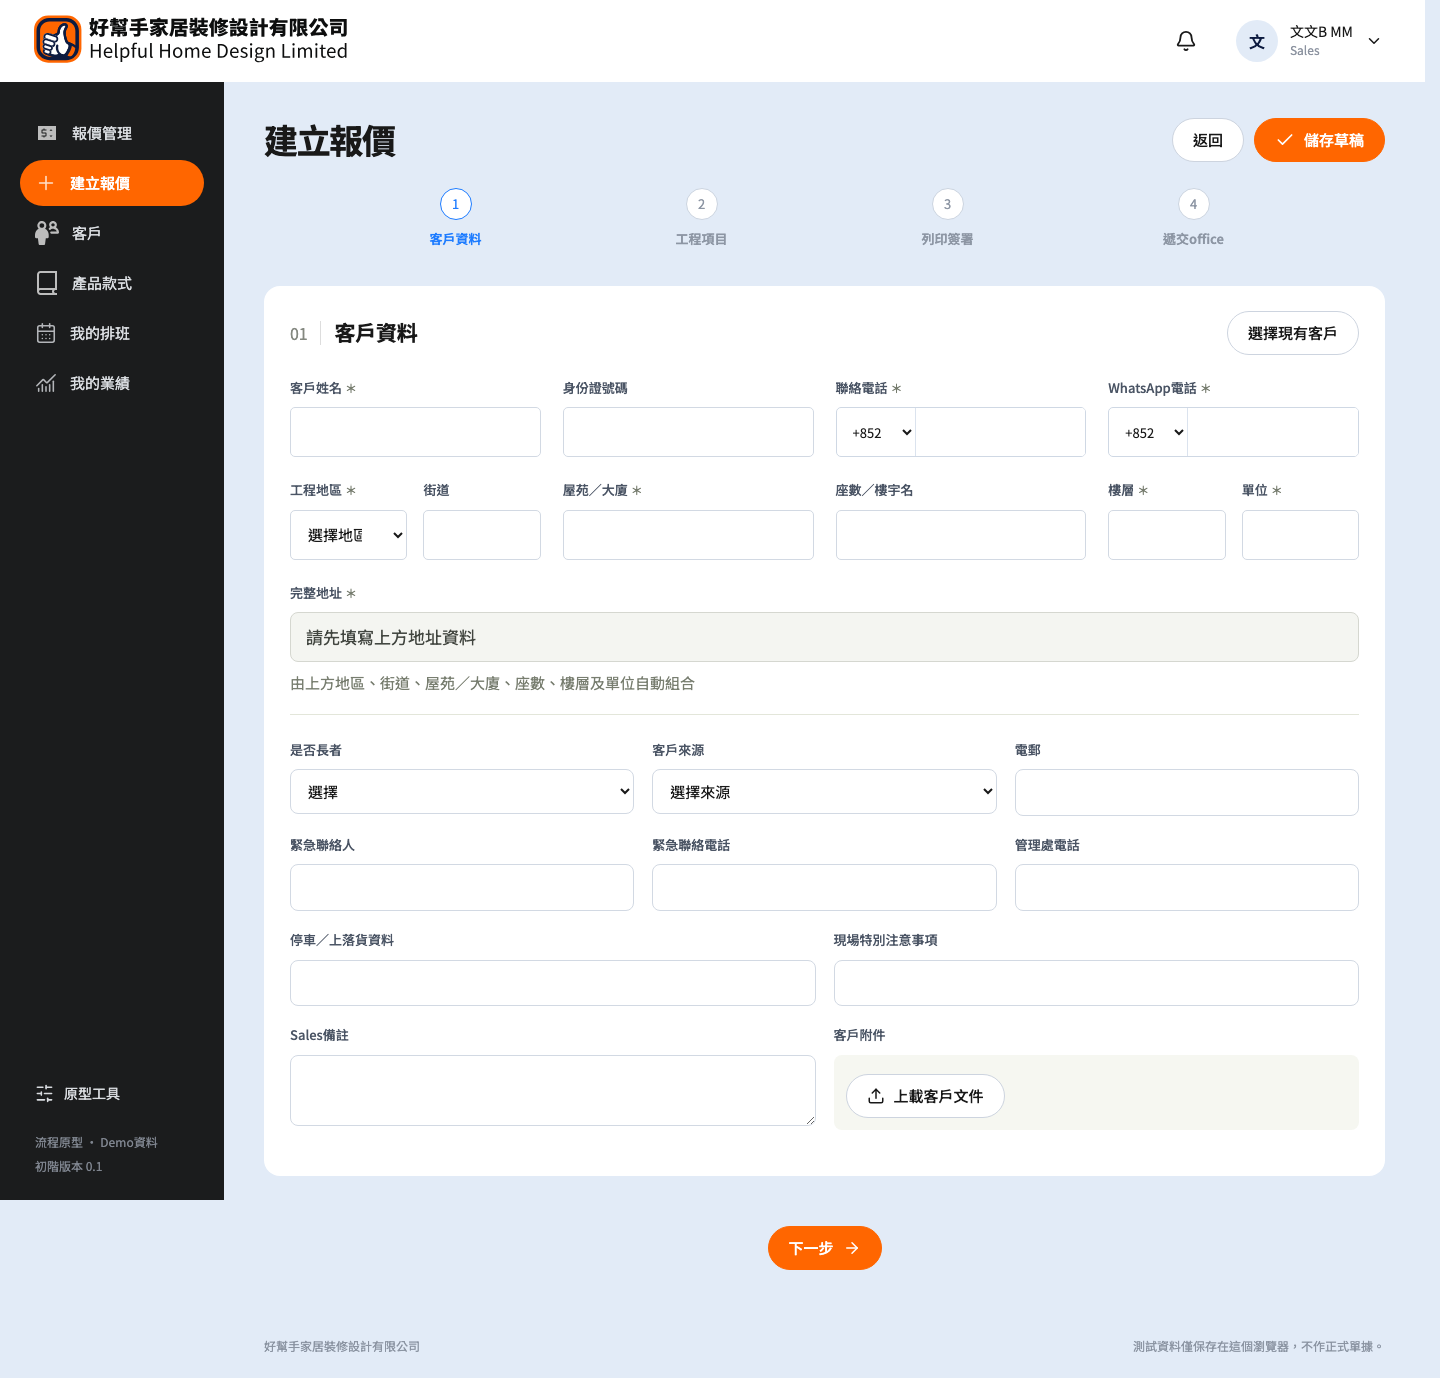
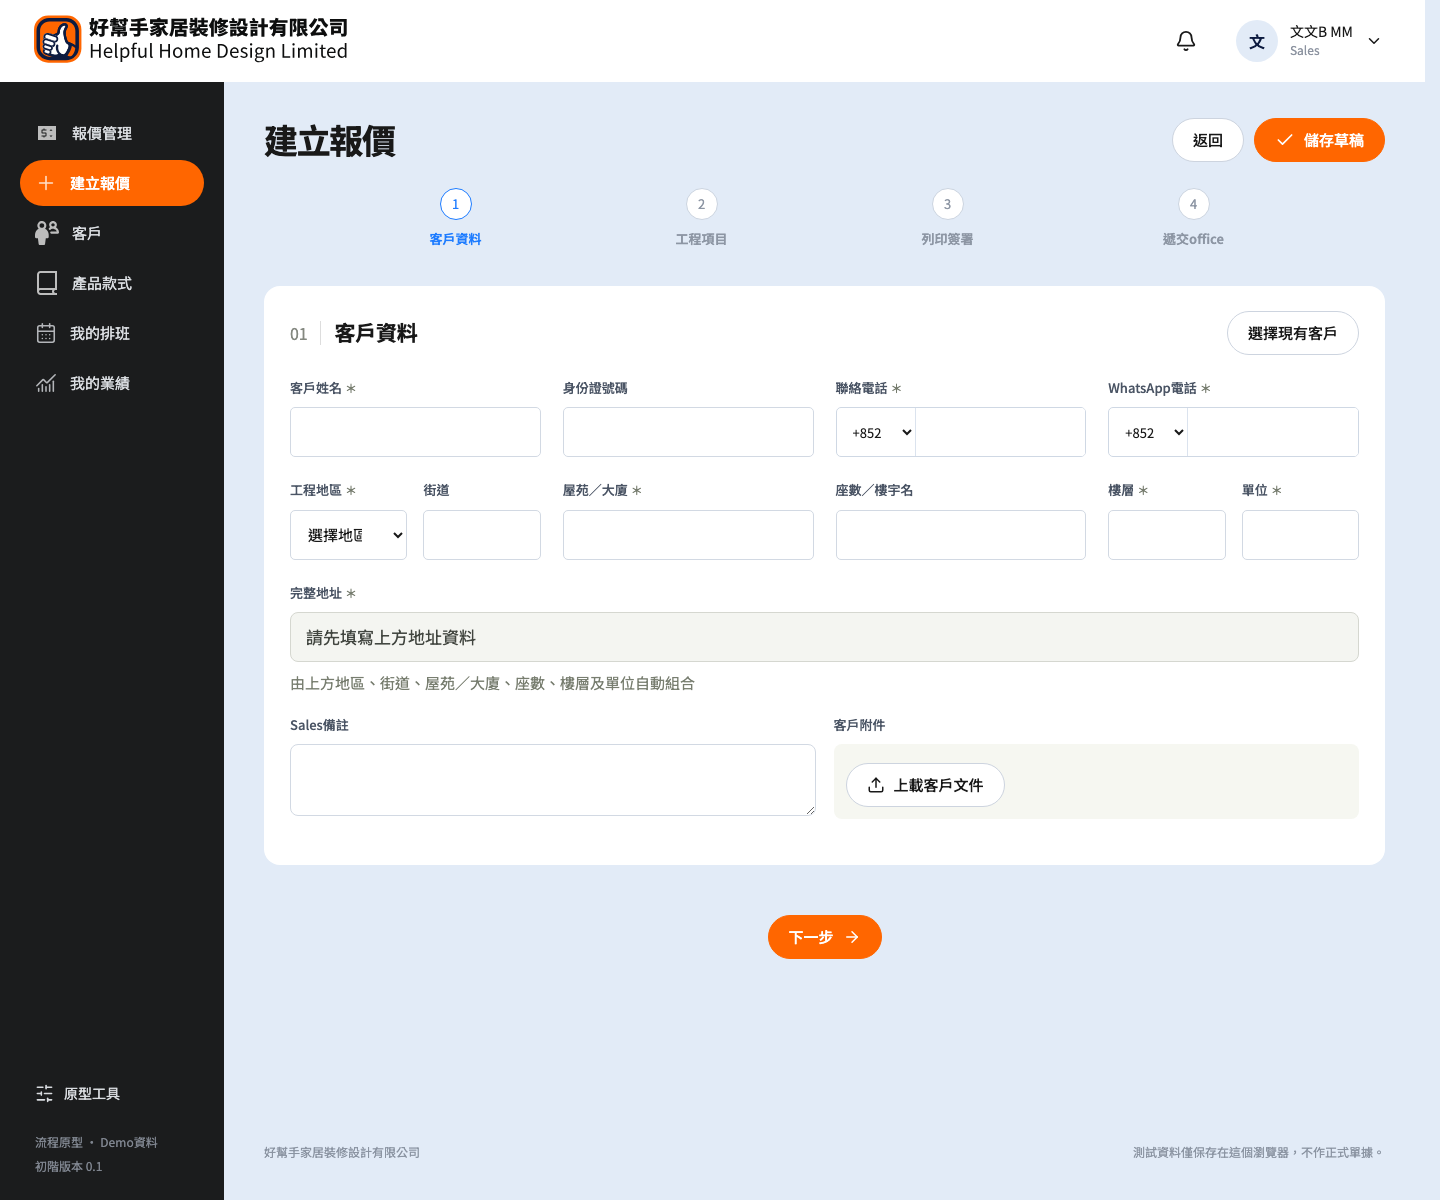
feat(quotes): finalize wizard fields, grouped items and order nature

diff --git a/src/pages/Quotes.tsx b/src/pages/Quotes.tsx
@@ -458,58 +458,25 @@ export function CustomerForm({
           {address || "請先填寫上方地址資料"}
         </output>
       </Field>
-      <div className="expanded-form">
-        <div className="form-grid three">
-            <Field label="是否長者">
-            <select
-              value={value.isElderly}
-              onChange={(e) => set("isElderly", e.target.value)}
-            >
-              <option value="">選擇</option>
-              <option value="yes">是</option>
-              <option value="no">否</option>
-            </select>
-          </Field>
-          <Field label="客戶來源">
-            <select
-              value={value.source}
-              onChange={(e) => set("source", e.target.value)}
-            >
-              <option value="">選擇來源</option>
-              {["Facebook", "街站", "朋友介紹", "舊客", "其他"].map(
-                (source) => (
-                  <option key={source}>{source}</option>
-                ),
-              )}
-            </select>
-          </Field>
-          {text("email", "電郵", false)}
-          {text("emergencyName", "緊急聯絡人", false)}
-          {text("emergencyPhone", "緊急聯絡電話", false)}
-          {text("managementPhone", "管理處電話", false)}
-        </div>
-        <div className="form-grid two">
-          {text("parking", "停車／上落貨資料", false)}
-          {text("precautions", "現場特別注意事項", false)}
-          <Field label="Sales備註">
-            <textarea
-              value={value.notes}
-              onChange={(e) => set("notes", e.target.value)}
-            />
-          </Field>
-          <Field label="客戶附件">
-            <UploadField
-              attachment={value.attachment}
-              label="上載客戶文件"
-              onSave={(attachment) =>
-                onChange({ ...value, attachment, address })
-              }
-              onClear={() =>
-                onChange({ ...value, attachment: undefined, address })
-              }
-            />
-          </Field>
-        </div>
+      <div className="form-grid two">
+        <Field label="Sales備註">
+          <textarea
+            value={value.notes}
+            onChange={(e) => set("notes", e.target.value)}
+          />
+        </Field>
+        <Field label="客戶附件">
+          <UploadField
+            attachment={value.attachment}
+            label="上載客戶文件"
+            onSave={(attachment) =>
+              onChange({ ...value, attachment, address })
+            }
+            onClear={() =>
+              onChange({ ...value, attachment: undefined, address })
+            }
+          />
+        </Field>
       </div>
     </>
   );
@@ -901,10 +868,29 @@ export function QuoteEditor() {
                 {lines.map((l, i) => {
                   const s = l.itemSnapshot,
                     a = pricing.lineAmounts.find((a) => a.id === l.id);
+                  const firstInCategory =
+                    i === 0 ||
+                    lines[i - 1].itemSnapshot.category !== s.category;
+                  const lastInCategory =
+                    i === lines.length - 1 ||
+                    lines[i + 1].itemSnapshot.category !== s.category;
+                  const categoryTotal = lines
+                    .filter((line) => line.itemSnapshot.category === s.category)
+                    .reduce(
+                      (total, line) =>
+                        total +
+                        (pricing.lineAmounts.find(
+                          (amount) => amount.id === line.id,
+                        )?.preDiscount ?? 0),
+                      0,
+                    );
                   return (
+                    <React.Fragment key={l.id}>
+                    {firstInCategory && (
+                      <div className="quote-category-head">{s.category}</div>
+                    )}
                     <article
                       className={`line-card ${l.pricePending ? "pending-price" : ""}`}
-                      key={l.id}
                     >
                       <div className="line-head">
                         <span className="line-index">
@@ -1108,6 +1094,13 @@ export function QuoteEditor() {
                         </button>
                       )}
                     </article>
+                    {lastInCategory && (
+                      <div className="quote-category-subtotal">
+                        <span>工程小計</span>
+                        <strong>{money(categoryTotal)}</strong>
+                      </div>
+                    )}
+                    </React.Fragment>
                   );
                 })}
               </div>
@@ -1221,7 +1214,7 @@ export function QuoteEditor() {
             >
               儲存更正
             </Button>
-          ) : (
+          ) : !wizard ? (
             <Button
               className="full-width"
               variant="primary"
@@ -1230,7 +1223,7 @@ export function QuoteEditor() {
             >
               前往預覽及成交 <ArrowRight size={20} />
             </Button>
-          )}
+          ) : null}
         </aside>
         )}
       </div>

diff --git a/src/pages/QuoteHandoff.tsx b/src/pages/QuoteHandoff.tsx
@@ -57,6 +57,12 @@ export function QuoteHandoff() {
     preparation?.supervisorId ?? "",
   );
   const [confirmSigned, setConfirmSigned] = useState(false);
+  const [additionalOrder, setAdditionalOrder] = useState(
+    Boolean(quote.isAdditionalOrder),
+  );
+  const [parentQuoteId, setParentQuoteId] = useState(
+    quote.parentQuoteId ?? "",
+  );
   const [amount, setAmount] = useState("1500");
   const [method, setMethod] = useState<Payment["method"]>("cash");
   const [custody, setCustody] = useState<Payment["custody"]>("sales");
@@ -80,6 +86,22 @@ export function QuoteHandoff() {
       .listPayments(actor)
       .filter((payment) => payment.quoteId === quote!.id);
   } catch {}
+  const ownPreviousQuotes = engine
+    .listQuotes(actor)
+    .filter(
+      (candidate) =>
+        candidate.ownerId === quote!.ownerId && candidate.id !== quote!.id,
+    )
+    .sort((a, b) => b.updatedAt.localeCompare(a.updatedAt));
+  const sameCustomerPrevious = ownPreviousQuotes.find((candidate) => {
+    const customer = currentVersion(candidate).customer;
+    return (
+      (version.customer.id && customer.id === version.customer.id) ||
+      (version.customer.phone &&
+        customer.phone.replace(/\s+/g, "") ===
+          version.customer.phone.replace(/\s+/g, ""))
+    );
+  });
   const canEdit = quote.ownerId === actor.id;
   const signedDocument = version.signedDocument;
   const signed =
@@ -224,6 +246,81 @@ export function QuoteHandoff() {
                     },
                   )}
                 </div>
+              </div>
+              <div className="handoff-nature">
+                <strong>訂單性質</strong>
+                <label>
+                  <input
+                    type="radio"
+                    name="order-nature"
+                    checked={!additionalOrder}
+                    disabled={Boolean(preparation) || !canEdit}
+                    onChange={() => {
+                      setAdditionalOrder(false);
+                      setParentQuoteId("");
+                      run(
+                        () =>
+                          engine.updateQuoteOrderMeta(actor, quote!.id, {
+                            isAdditionalOrder: false,
+                          }),
+                        "已設為新訂單。",
+                      );
+                    }}
+                  />
+                  新訂單
+                </label>
+                <label>
+                  <input
+                    type="radio"
+                    name="order-nature"
+                    checked={additionalOrder}
+                    disabled={Boolean(preparation) || !canEdit}
+                    onChange={() => {
+                      setAdditionalOrder(true);
+                      if (sameCustomerPrevious) {
+                        setParentQuoteId(sameCustomerPrevious.id);
+                        run(
+                          () =>
+                            engine.updateQuoteOrderMeta(actor, quote!.id, {
+                              isAdditionalOrder: true,
+                              parentQuoteId: sameCustomerPrevious.id,
+                            }),
+                          `已自動配對同客戶舊報價 ${sameCustomerPrevious.number}。`,
+                        );
+                      }
+                    }}
+                  />
+                  加單
+                </label>
+                {additionalOrder && (
+                  <select
+                    aria-label="原本報價單"
+                    value={parentQuoteId}
+                    disabled={Boolean(preparation) || !canEdit}
+                    onChange={(event) => {
+                      const value = event.target.value;
+                      setParentQuoteId(value);
+                      if (!value) return;
+                      run(
+                        () =>
+                          engine.updateQuoteOrderMeta(actor, quote!.id, {
+                            isAdditionalOrder: true,
+                            parentQuoteId: value,
+                          }),
+                        "加單資料已更新。",
+                      );
+                    }}
+                  >
+                    <option value="">選擇自己之前的報價單</option>
+                    {ownPreviousQuotes.map((candidate) => (
+                      <option key={candidate.id} value={candidate.id}>
+                        {candidate.number} ·{" "}
+                        {currentVersion(candidate).customer.name} ·{" "}
+                        {candidate.createdAt.slice(0, 10)}
+                      </option>
+                    ))}
+                  </select>
+                )}
               </div>
               {preparation && (
                 <div className="handoff-prepared">

diff --git a/src/styles.css b/src/styles.css
@@ -10007,3 +10007,61 @@ textarea::placeholder {
   margin: 0;
   font-size: 13px;
 }
+
+/* Real Step 2 category grouping */
+.quote-category-head {
+  margin: 18px 0 0;
+  padding: 10px 16px;
+  border-radius: 6px 6px 0 0;
+  background: #88baff;
+  color: #14315e;
+  font-size: 14px;
+  font-weight: 600;
+}
+.quote-category-head + .line-card {
+  margin-top: 0;
+  border-top-left-radius: 0;
+  border-top-right-radius: 0;
+}
+.quote-category-subtotal {
+  display: flex;
+  justify-content: space-between;
+  gap: 16px;
+  margin-bottom: 14px;
+  padding: 9px 16px;
+  border-radius: 0 0 6px 6px;
+  background: #f0f3f7;
+  color: #596579;
+  font-size: 13px;
+}
+.quote-category-subtotal strong {
+  color: #313642;
+  font-variant-numeric: tabular-nums;
+}
+
+.handoff-nature {
+  display: flex;
+  align-items: center;
+  flex-wrap: wrap;
+  gap: 10px 16px;
+  margin-top: 18px;
+  padding-top: 16px;
+  border-top: 1px solid #dbe3ee;
+  color: #4f5b6b;
+  font-size: 13px;
+}
+.handoff-nature > strong {
+  flex-basis: 100%;
+  color: #4b5565;
+}
+.handoff-nature label {
+  display: inline-flex;
+  align-items: center;
+  gap: 6px;
+  white-space: nowrap;
+}
+.handoff-nature select {
+  width: 100%;
+  min-height: 40px;
+  margin-top: 4px;
+}

diff --git a/tests/e2e/customer-form.spec.ts b/tests/e2e/customer-form.spec.ts
@@ -30,8 +30,9 @@ test("Sales客戶表單只顯示核心欄位，街道及座數可以留空", asy
   expect(labelText).toContain("街道");
   expect(labelText.some((text) => text.startsWith("座數"))).toBe(true);
   expect(labelText.some((text) => text.startsWith("身份證號碼"))).toBe(true);
-  expect(labelText).toContain("緊急聯絡人");
-  expect(labelText).toContain("緊急聯絡電話");
+  expect(labelText).not.toContain("緊急聯絡人");
+  expect(labelText).not.toContain("是否長者");
+  expect(labelText).not.toContain("客戶來源");
   const streetLabel = labelText.find((text) => text.startsWith("街道")) ?? "";
   const blockLabel = labelText.find((text) => text.startsWith("座數")) ?? "";
   const nameLabel = labelText.find((text) => text.startsWith("客戶姓名")) ?? "";

diff --git a/tests/e2e/golden-path.spec.ts b/tests/e2e/golden-path.spec.ts
@@ -60,8 +60,12 @@ test("全新來源經Sales→Finance→開單員→CS；部分款及未簽不會
   await line.getByLabel("長度", { exact: false }).fill("100");
   await line.getByLabel("闊度", { exact: false }).fill("1");
   await page
-    .getByRole("button", { name: "前往預覽及成交", exact: true })
+    .getByRole("button", { name: /下一步：列印簽署/ })
     .click();
+  await expect(
+    page.getByRole("heading", { name: "3. 列印簽署", exact: true }),
+  ).toBeVisible();
+  await page.getByRole("button", { name: "報價詳情", exact: true }).click();
   await expect(
     page.getByRole("heading", { name: "UI測試新客戶的報價", exact: true }),
   ).toBeVisible();

diff --git a/tests/e2e/quote-handoff.spec.ts b/tests/e2e/quote-handoff.spec.ts
@@ -35,6 +35,8 @@ test("Sales完成正式Step 3列印簽署及Step 4交Office", async ({ page }) =
   await expect(
     page.getByRole("heading", { name: "3. 列印簽署", exact: true }),
   ).toBeVisible();
+  await expect(page.getByRole("radio", { name: "新訂單", exact: true })).toBeVisible();
+  await expect(page.getByRole("radio", { name: "加單", exact: true })).toBeVisible();
   await page.getByLabel("當日主管", { exact: false }).selectOption({ index: 1 });
   await page
     .getByRole("button", { name: "準備列印報價單", exact: true })
